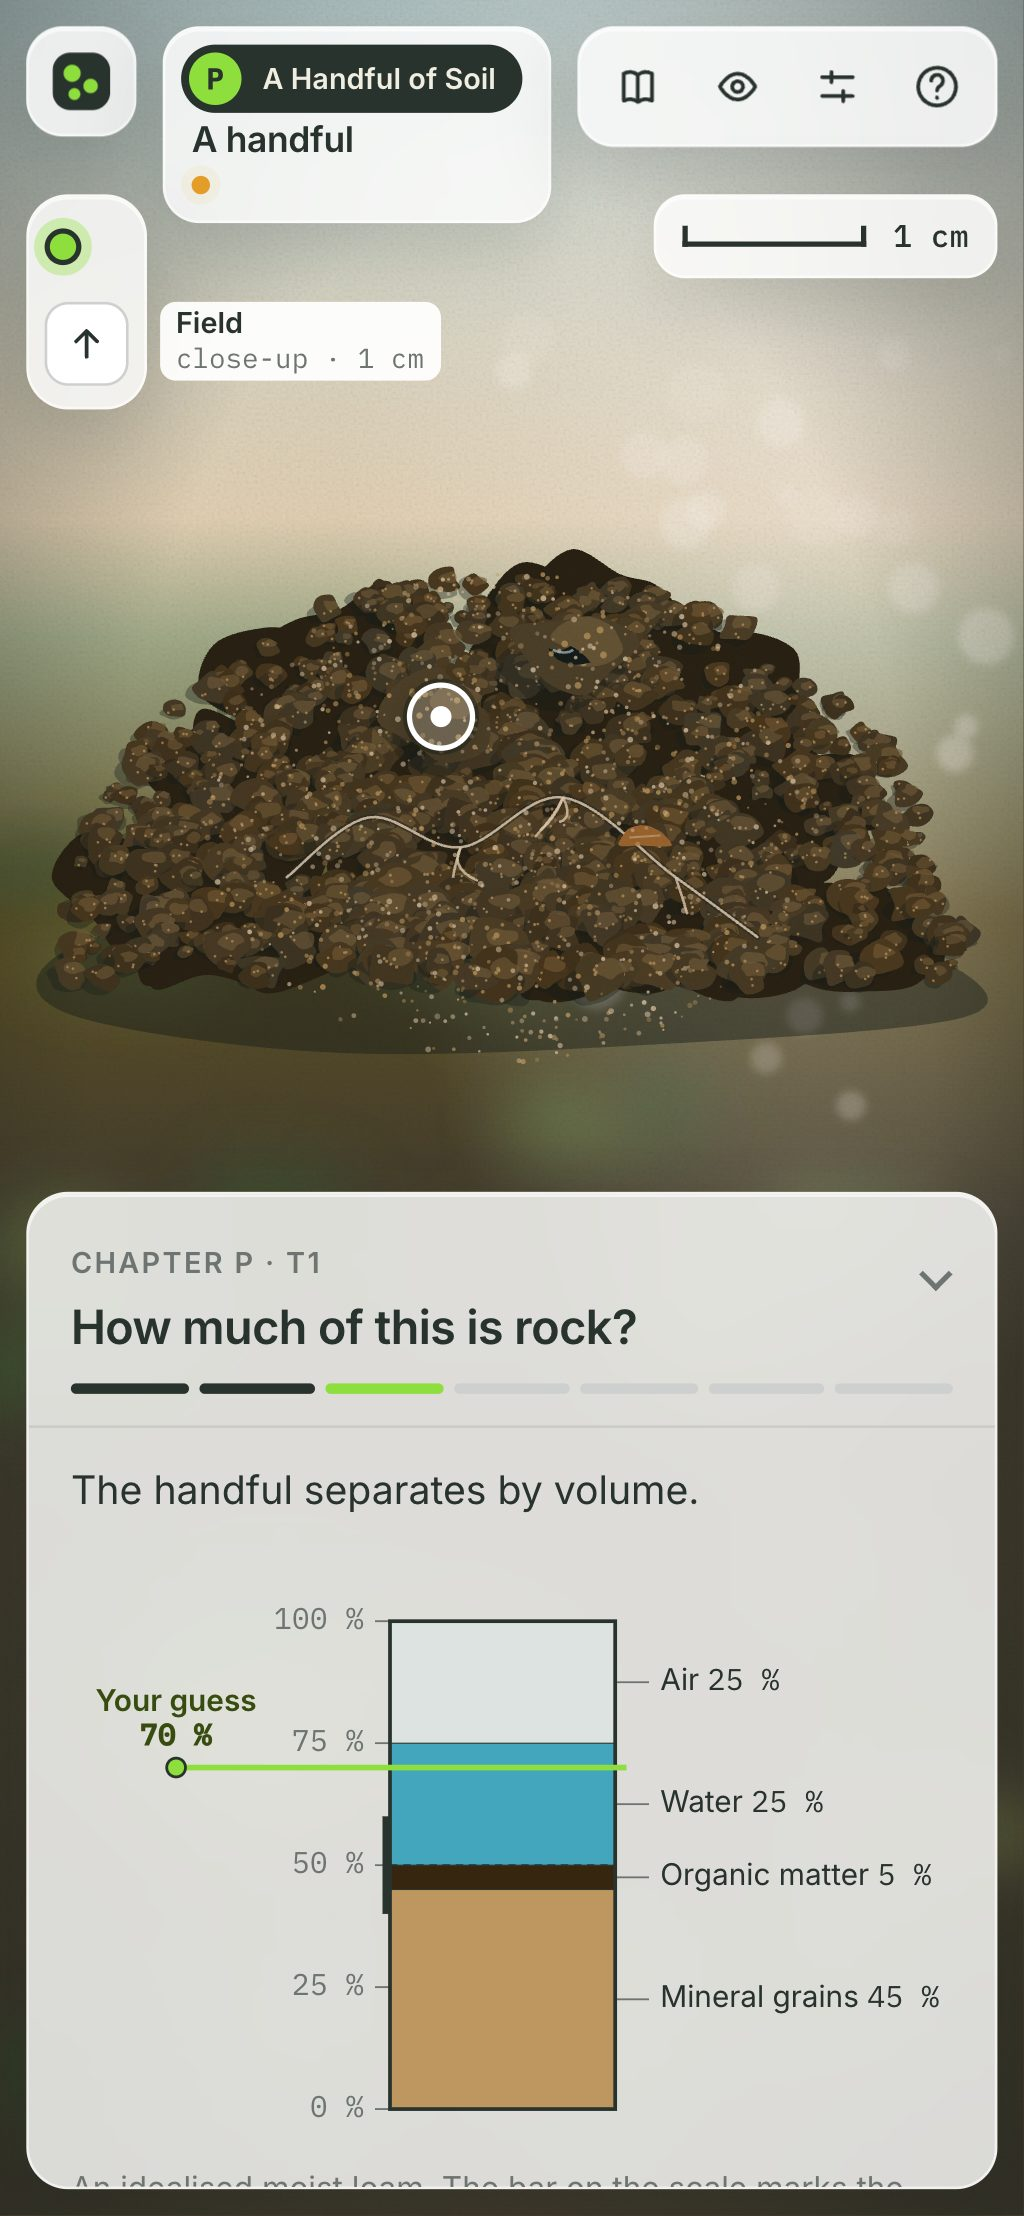
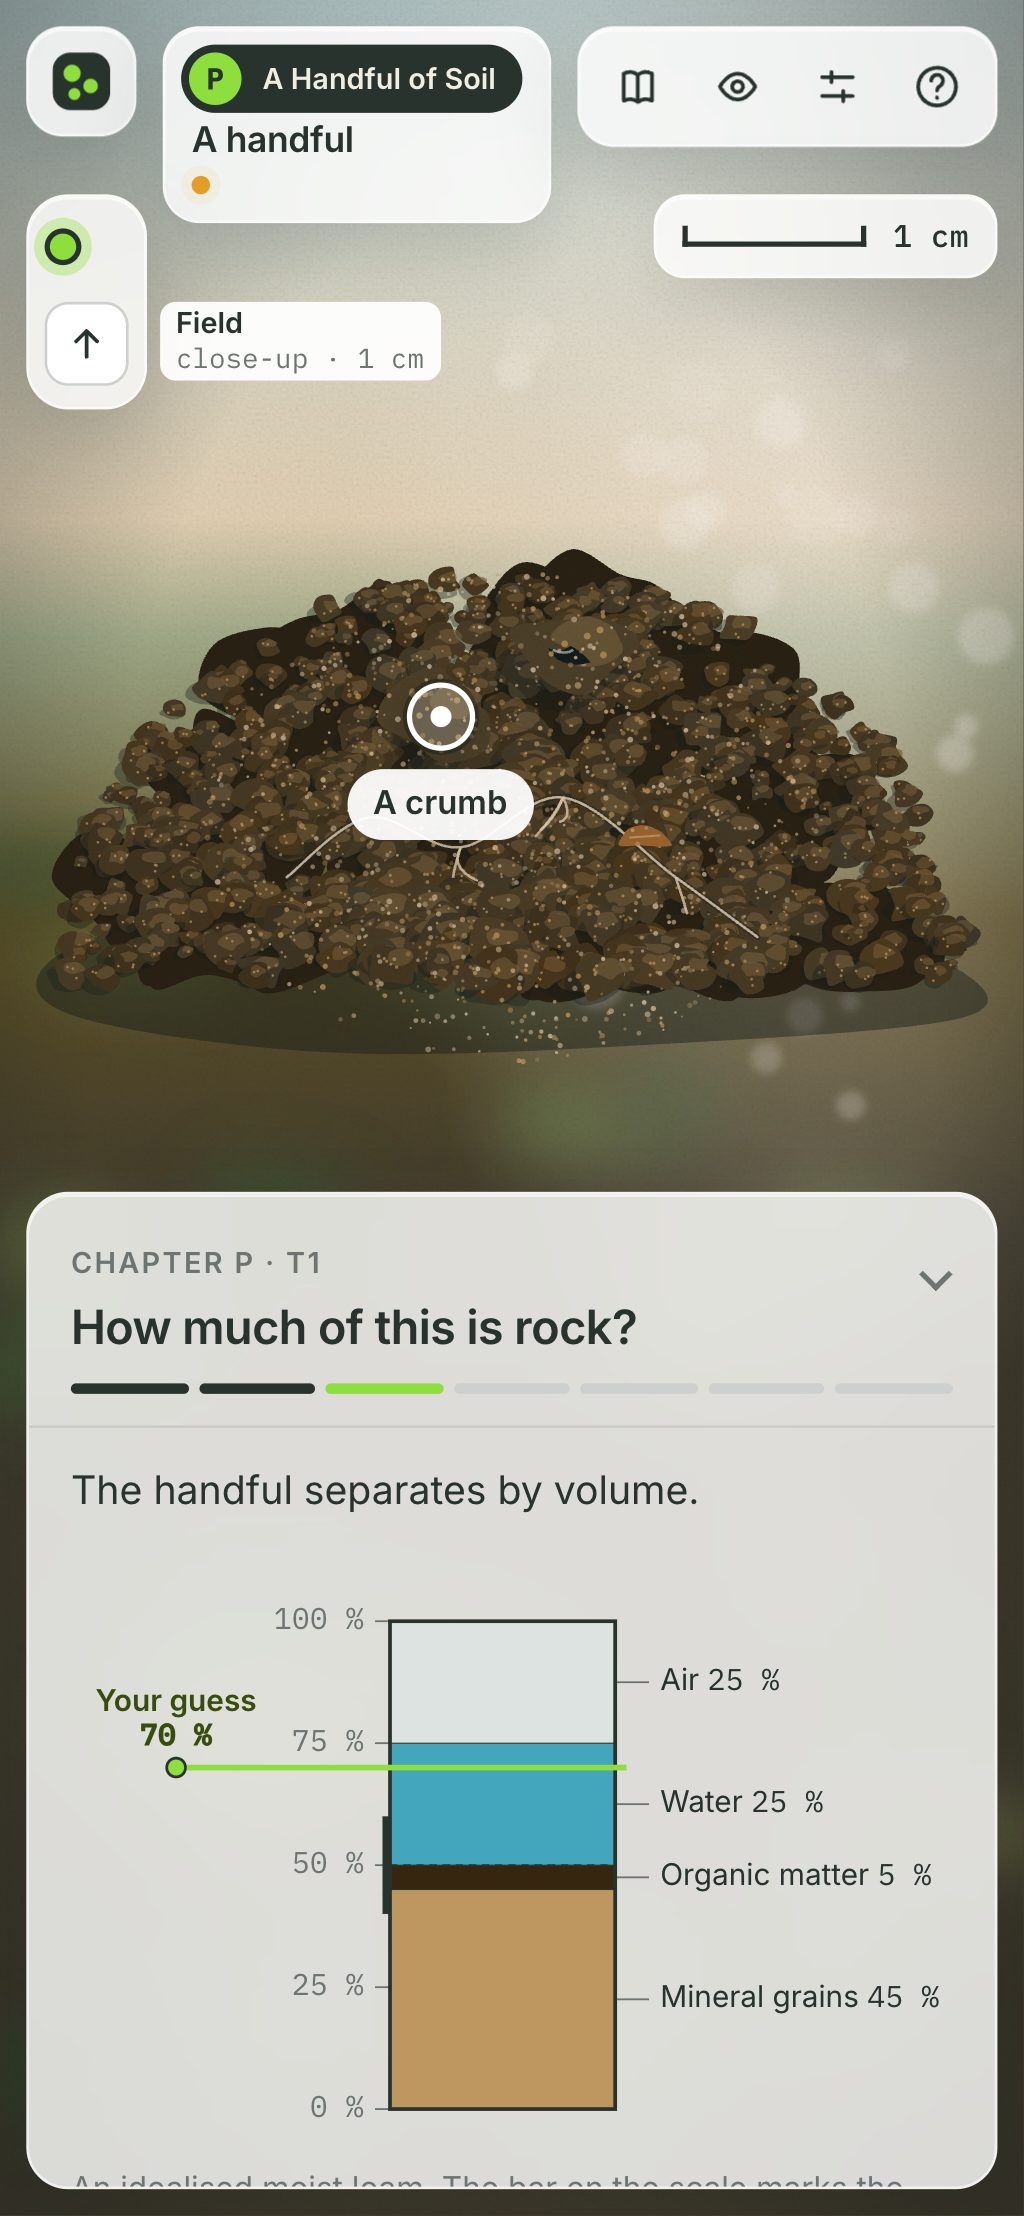
feat(ui): curiosity cues and small UX fixes (R06) (#14)
* feat(ui): curiosity cues — first-visit labels, idle pulse, hide visible 'Go there', title chapter list (R06)

* docs(screens): refresh for R06 cues

---------

Changed region(s): [[0.3438, 0.3425, 0.5312, 0.4048]]

diff --git a/src/ui/MissionPanel.tsx b/src/ui/MissionPanel.tsx
@@ -6,7 +6,7 @@ import { useEffect, useRef, useState } from "react";
 import { CHAPTERS, DISCOVERIES, chapter, scene as sceneById, SCENES } from "../content";
 import type { Choice, Mission, Step } from "../content/schema";
 import type { Save } from "../save/schema";
-import { advance, currentStep, isScanned, setFlag, stepIndex } from "../app/progress";
+import { advance, currentStep, isScanned, setFlag, stepIndex, visibleObjects } from "../app/progress";
 import { appendLab } from "../save/schema";
 import { RULESET_VERSION, DEFAULT_LEVERS } from "../sim/benches/leaf-jar";
 import { href, targetHref } from "../app/router";
@@ -518,6 +518,9 @@ export function MissionPanel(props: Props) {
   const i = stepIndex(save, m.id);
   const away = m.scene !== sceneId && step && step.kind !== "go" && step.kind !== "bench" && i === 0;
   const where = sceneById(m.scene);
+  const here = sceneById(sceneId);
+  const portalInView =
+    !!here && visibleObjects(here, save).some((o) => o.kind === "portal" && o.to === m.scene);
   return (
     <aside className="mission" aria-label={`Mission: ${m.title}`} data-open={open}>
       <header className="mission-head">
@@ -539,9 +542,13 @@ export function MissionPanel(props: Props) {
           {away && where ? (
             <>
               <p className="step-text">This mission starts at {where.title.toLowerCase()}.</p>
-              <button type="button" className="btn btn-primary" onClick={() => go(targetHref(where.id))}>
-                Go there
-              </button>
+              {portalInView ? (
+                <p className="hint">The portal is pulsing in the scene.</p>
+              ) : (
+                <button type="button" className="btn btn-primary" onClick={() => go(targetHref(where.id))}>
+                  Go there
+                </button>
+              )}
             </>
           ) : (
             step && <StepBody {...props} mission={m} step={step} />

diff --git a/src/ui/Hotspots.tsx b/src/ui/Hotspots.tsx
@@ -1,5 +1,5 @@
 /** The scene outline: every object is a real button, placed over the plate. */
-import type { CSSProperties } from "react";
+import { useEffect, useState, type CSSProperties } from "react";
 import type { SceneObject } from "../content/schema";
 
 interface Props {
@@ -7,7 +7,12 @@ interface Props {
   scanned: (id: string) => boolean;
   highlight: Set<string>;
   onActivate: (o: SceneObject) => void;
+  /** No scan in this scene yet: labels stay visible as a cue. */
+  fresh: boolean;
+  reduced: boolean;
 }
+
+const IDLE_MS = 6000;
 
 const VERB: Record<SceneObject["kind"], string> = {
   portal: "Go",
@@ -16,9 +21,30 @@ const VERB: Record<SceneObject["kind"], string> = {
   glimpse: "Glimpse",
 };
 
-export function Hotspots({ objects, scanned, highlight, onActivate }: Props) {
+export function Hotspots({ objects, scanned, highlight, onActivate, fresh, reduced }: Props) {
+  const [idle, setIdle] = useState(false);
+  useEffect(() => {
+    if (reduced) return;
+    let timer = window.setTimeout(() => setIdle(true), IDLE_MS);
+    const wake = () => {
+      setIdle(false);
+      window.clearTimeout(timer);
+      timer = window.setTimeout(() => setIdle(true), IDLE_MS);
+    };
+    const events = ["pointerdown", "keydown", "wheel"] as const;
+    for (const e of events) window.addEventListener(e, wake);
+    return () => {
+      window.clearTimeout(timer);
+      for (const e of events) window.removeEventListener(e, wake);
+    };
+  }, [reduced]);
   return (
-    <ul className="scene-outline" aria-label="Things in this scene">
+    <ul
+      className="scene-outline"
+      aria-label="Things in this scene"
+      data-fresh={fresh}
+      data-idle={idle && !reduced}
+    >
       {objects.map((o) => {
         const done = o.kind === "scan" && scanned(o.id);
         return (

diff --git a/src/styles/app.css b/src/styles/app.css
@@ -435,6 +435,19 @@ button {
 .hotspot[data-hot="true"]:not([data-kind="portal"]) .hotspot-ring::before {
   border-color: var(--color-surface-card);
 }
+.scene-outline[data-idle="true"] .hotspot:not([data-done="true"]) .hotspot-ring {
+  animation: nudge 2.4s var(--ease-control) infinite;
+}
+@keyframes nudge {
+  0%,
+  70%,
+  100% {
+    transform: scale(1);
+  }
+  35% {
+    transform: scale(1.12);
+  }
+}
 @keyframes ping {
   0% {
     transform: scale(1);
@@ -466,6 +479,7 @@ button {
     transform var(--duration-instant) var(--ease-control);
 }
 .hotspot[data-kind="portal"] .hotspot-label,
+.scene-outline[data-fresh="true"] .hotspot-label,
 .hotspot[data-hot="true"] .hotspot-label,
 .hotspot:hover .hotspot-label,
 .hotspot:focus-visible .hotspot-label {
@@ -1774,7 +1788,7 @@ input[type="range"] {
 }
 .title-chapters li {
   display: grid;
-  grid-template-columns: 44px 1fr;
+  grid-template-columns: 84px 1fr;
   gap: 8px;
   padding: 10px 0;
   border-bottom: 1px solid var(--glass-line);

diff --git a/e2e/cues.spec.ts b/e2e/cues.spec.ts
@@ -1,0 +1,23 @@
+import { expect, test, type Page } from "@playwright/test";
+
+const outline = (page: Page) => page.locator(".scene-outline");
+
+async function firstVisit(page: Page) {
+  await page.goto("./#/ch/prologue/p-field-dawn");
+  await expect(page.locator(".hotspots")).toHaveAttribute("data-busy", "false", { timeout: 30_000 });
+}
+
+test("labels show on a scene's first visit", async ({ page }) => {
+  await firstVisit(page);
+  await expect(page.locator('.hotspot[data-kind="scan"] .hotspot-label').first()).toBeVisible();
+});
+
+test("idle pulse waits 6 s and is off under reduced motion", async ({ page }) => {
+  await firstVisit(page);
+  await expect(outline(page)).toHaveAttribute("data-idle", "true", { timeout: 9_000 });
+
+  await page.emulateMedia({ reducedMotion: "reduce" });
+  await firstVisit(page);
+  await page.waitForTimeout(7_000);
+  await expect(outline(page)).toHaveAttribute("data-idle", "false");
+});

diff --git a/src/ui/Title.tsx b/src/ui/Title.tsx
@@ -40,7 +40,7 @@ export function Title({
                   : "locked"
             }
           >
-            <span className="mono">{c.number}</span>
+            <span className="mono">{c.number === "P" ? "Prologue" : `Chapter ${c.number}`}</span>
             <span>
               {c.title}
               <small>“{c.hook}”</small>
@@ -48,9 +48,9 @@ export function Title({
           </li>
         ))}
         <li data-state="planned">
-          <span className="mono">1–14</span>
+          <span className="mono">Twelve more</span>
           <span>
-            Twelve more chapters
+            Coming
             <small>glimpsed in the valley, still being written</small>
           </span>
         </li>

diff --git a/src/app/App.tsx b/src/app/App.tsx
@@ -260,6 +260,8 @@ export function App() {
             scanned={(id) => save.scanned.includes(`${scene.id}/${id}`)}
             highlight={highlight}
             onActivate={activate}
+            fresh={!save.scanned.some((k) => k.startsWith(`${scene.id}/`))}
+            reduced={reduced}
           />
         )}
       </World>

diff --git a/docs/backlog.md b/docs/backlog.md
@@ -146,7 +146,7 @@ Each is one PR, green on `mise run check`; visual ones also run `mise run e2e` a
 - **Acceptance:** before/after screenshots in the PR; painter determinism tests still pass; `tests/tokens.test.ts` passes; `mise run check` green.
 - **Depends on:** R04 (same recipes).
 
-### R06 — Curiosity cues and small UX fixes (P8, P9, P10)
+### R06 — Curiosity cues and small UX fixes (P8, P9, P10) · **done**
 
 - **Problem:** hotspots show names only on hover/focus, so the field gives no reason to click; the field has both "Go there" and "Pick up a handful"; the title chapter list reads "P / 2 / 1–14 Twelve more chapters".
 - **Direction:** labels visible on a scene's first visit (until first scan) and a gentle pulse after 6 s idle (off in reduced motion); hide the panel's "Go there" when the target portal is visible in the scene; title list shows "Prologue · Chapter 2 · twelve more coming".
